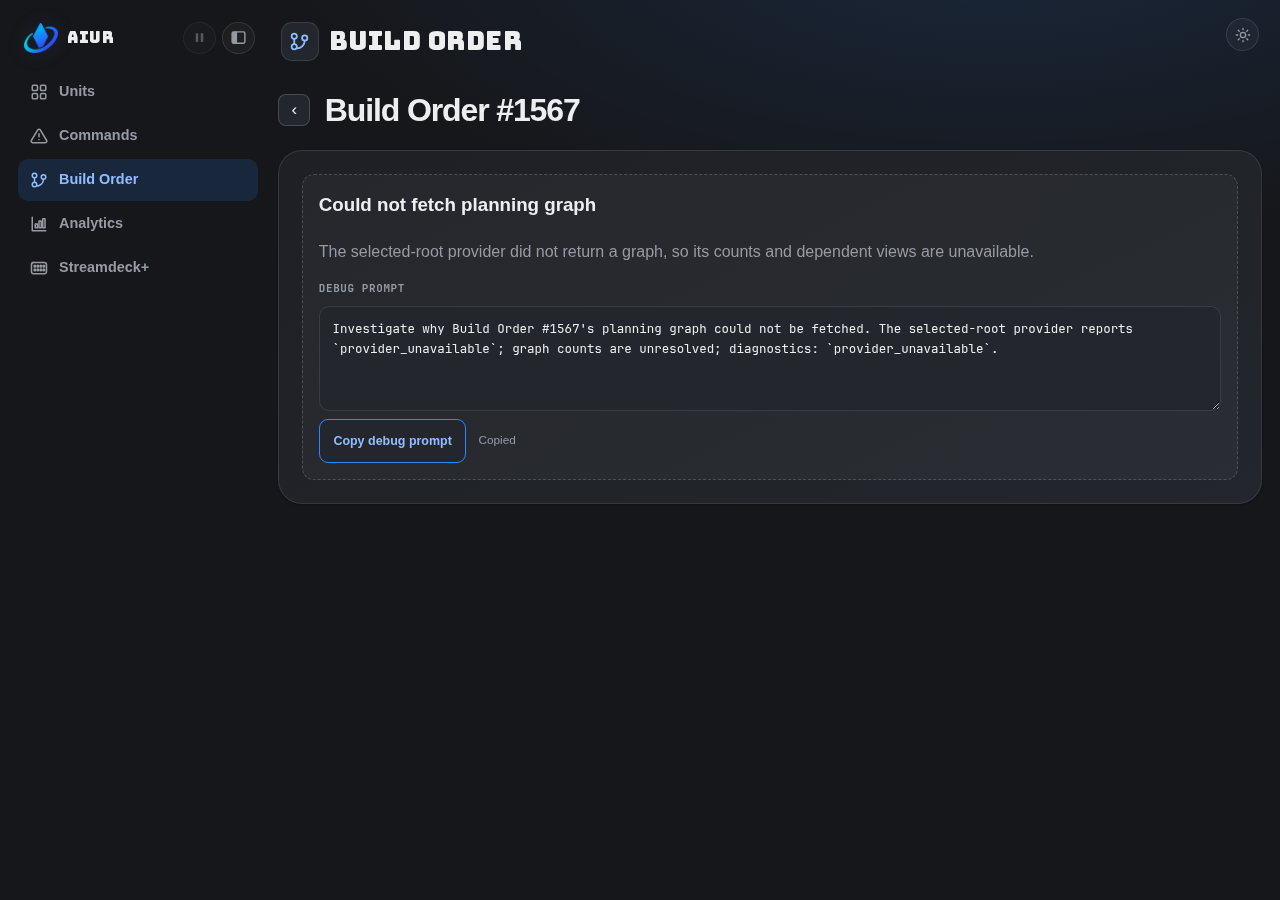
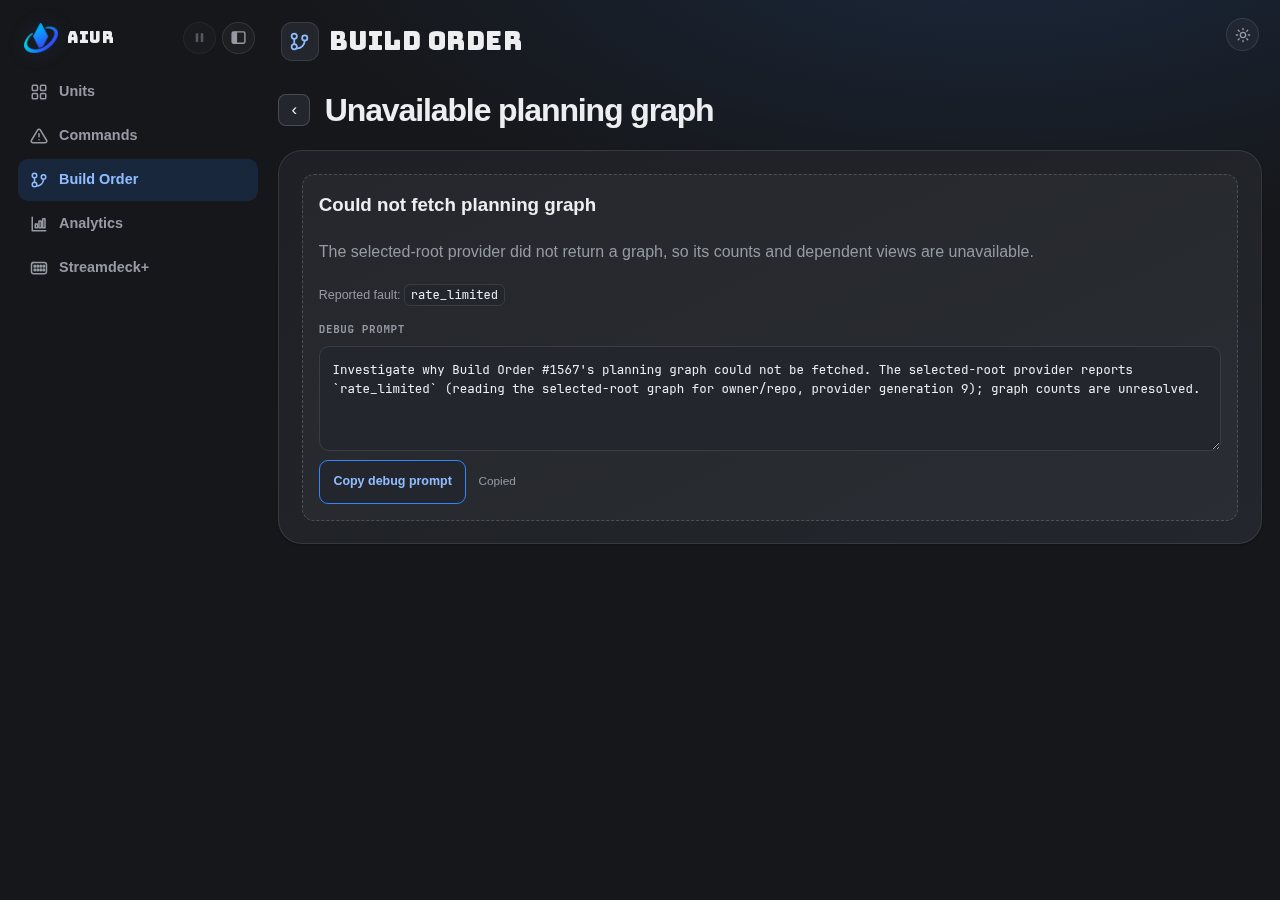
Name the real fault in the collapsed Build Order error state
Summary:
- report the specific code the provider gave (`rate_limited`, `permission`,
  `schema`, ...) instead of the laundered `provider_unavailable` stand-in
- carry the repository and provider generation into the debug prompt so a
  pasted prompt says what was being read
- drop diagnostics that merely restate the reported fault, keep genuinely
  distinct ones under "also reported"
- drive the browser fixture into #1791's reported shape: a known root whose
  members could not be read, which is what produced the six stacked cards

Rationale:
- #1808 stopped failure_class/1 collapsing every read fault into one code; the
  UI must not reintroduce the generic label it removed
- a debug prompt that names the wrong fault sends an agent after the wrong
  problem, which is worse than no prompt

Tests:
- mix compile --warnings-as-errors, mix format --check-formatted
- mix test --no-start (96 affected ExUnit tests, including new coverage for the
  specific-code path and for distinct-fault reporting)
- npm run test:build-order (7 browser tests)

diff --git a/src/priv/static/dashboard.css b/src/priv/static/dashboard.css
@@ -654,6 +654,20 @@ textarea:focus-visible,
   gap: 1rem;
 }
 
+.bo-error-fault {
+  color: var(--muted);
+  font-size: 0.78rem;
+}
+
+.bo-error-fault code {
+  padding: 0.1rem 0.35rem;
+  border: 1px solid var(--line);
+  border-radius: 6px;
+  background: var(--surface-2);
+  color: var(--fg);
+  font: 0.76rem/1.4 "JetBrains Mono", "SFMono-Regular", Consolas, monospace;
+}
+
 .bo-debug-prompt {
   display: grid;
   gap: 0.55rem;
